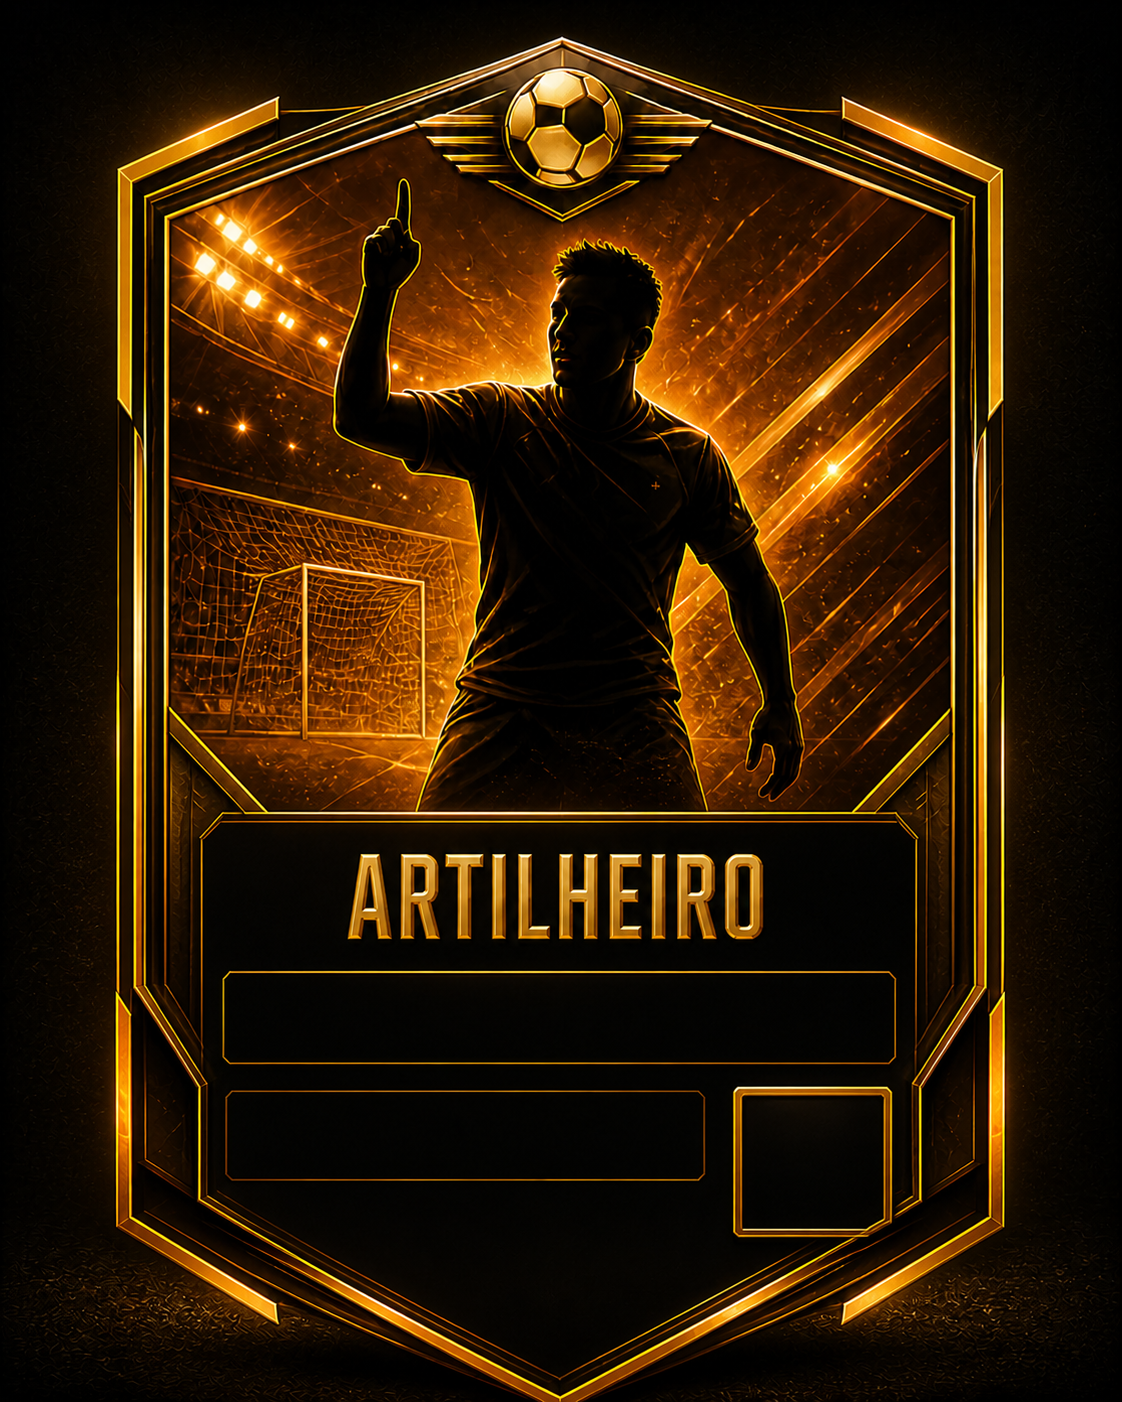
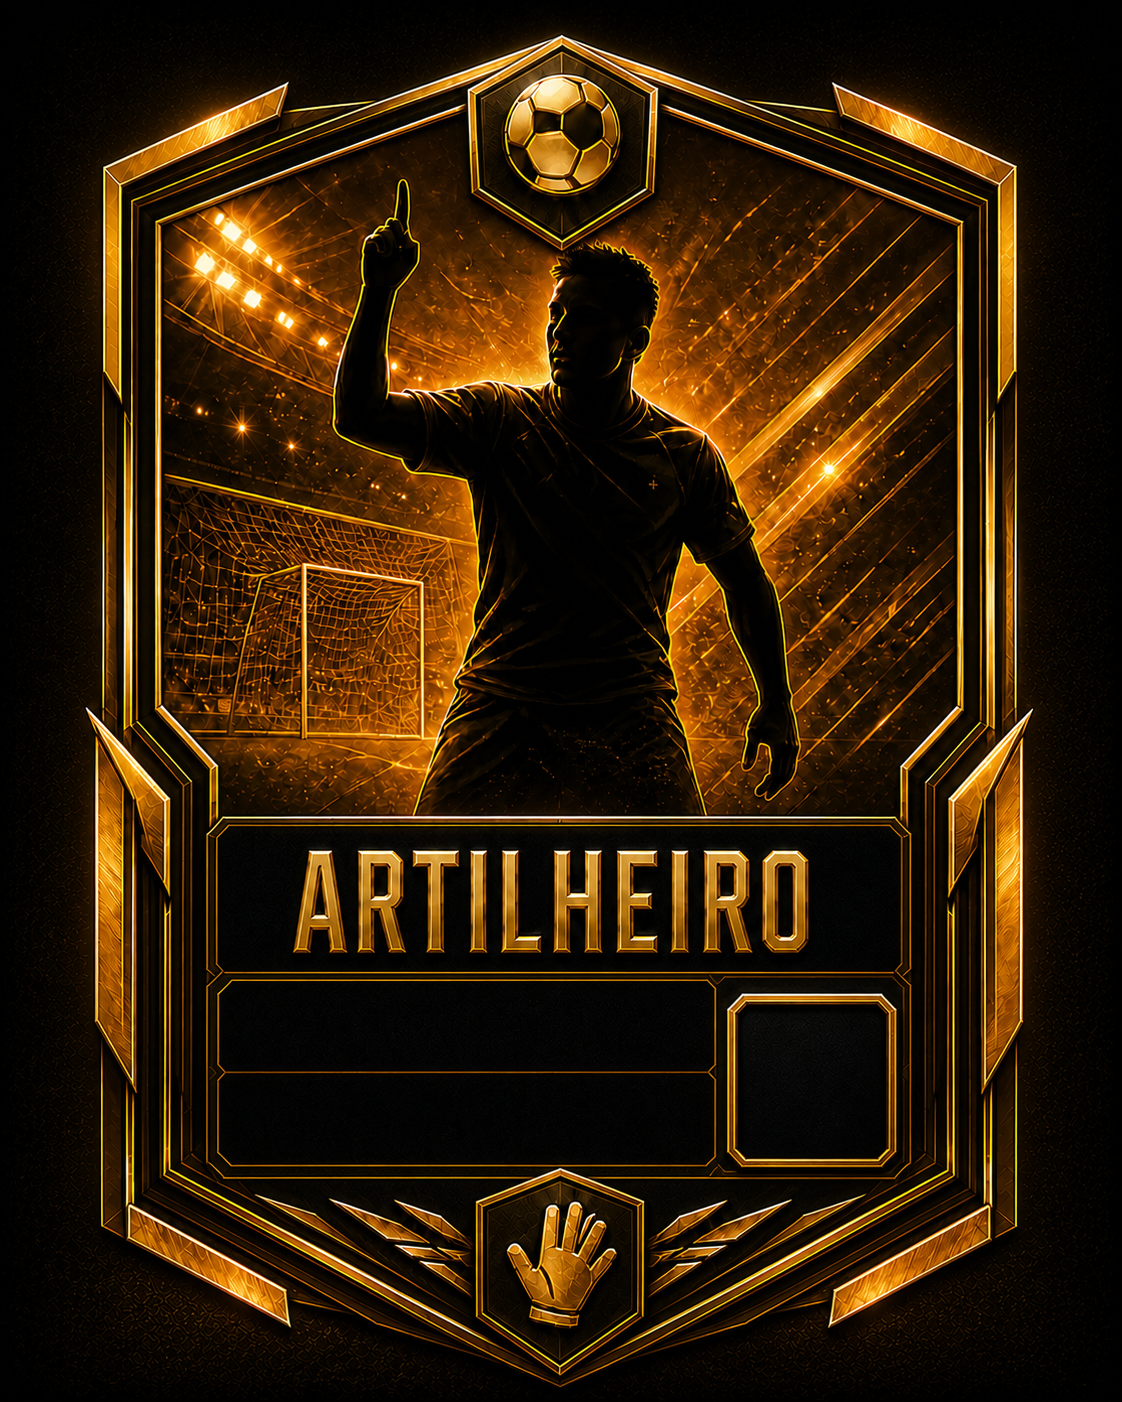
Standardize award card frames and QR placement

Changed region(s): [[0.0312, 0.0307, 0.9358, 1.0], [0.7799, 0.9815, 0.8111, 1.0], [0.6863, 0.9815, 0.7175, 1.0]]

diff --git a/lib/award-card-config.ts b/lib/award-card-config.ts
@@ -1,10 +1,10 @@
 export const AWARD_CARD_CONFIG = {
-  artilheiro: { title: "ARTILHEIRO", value: "12 GOLS", image: "/images/awards/artilheiro-template.png", color: "#ffbd35", qrLight: "#ffe09a", nickX: 0.5, nickY: 0.72, statX: 0.42, statY: 0.81, qrX: 0.665, qrY: 0.78, qrSize: 0.13, textWidth: 0.43 },
-  garcom: { title: "GARÇOM", value: "9 ASSISTÊNCIAS", image: "/images/awards/garcom-template.png", color: "#38bdf8", qrLight: "#a9e4ff", nickX: 0.43, nickY: 0.735, statX: 0.43, statY: 0.795, qrX: 0.67, qrY: 0.705, qrSize: 0.125, textWidth: 0.41 },
-  craque: { title: "CRAQUE DO CAMPEONATO", value: "NOTA 9,2", image: "/images/awards/craque-template.png", color: "#f4c542", qrLight: "#f3dd91", nickX: 0.43, nickY: 0.715, statX: 0.43, statY: 0.795, qrX: 0.665, qrY: 0.69, qrSize: 0.14, textWidth: 0.42 },
-  maestro: { title: "MAESTRO", value: "184 PASSES CERTOS", image: "/images/awards/maestro-template.png", color: "#2dd4bf", qrLight: "#a2f3e8", nickX: 0.5, nickY: 0.755, statX: 0.42, statY: 0.845, qrX: 0.67, qrY: 0.81, qrSize: 0.125, textWidth: 0.42 },
-  xerife: { title: "XERIFE", value: "31 DESARMES", image: "/images/awards/xerife-template.png", color: "#e2e8f0", qrLight: "#dce3ea", nickX: 0.5, nickY: 0.705, statX: 0.42, statY: 0.80, qrX: 0.69, qrY: 0.74, qrSize: 0.12, textWidth: 0.48 },
-  muralha: { title: "MURALHA", value: "27 DEFESAS", image: "/images/awards/muralha-template.png", color: "#ef4444", qrLight: "#ffaaaa", nickX: 0.42, nickY: 0.715, statX: 0.42, statY: 0.79, qrX: 0.66, qrY: 0.70, qrSize: 0.14, textWidth: 0.43 },
+  artilheiro: { title: "ARTILHEIRO", value: "12 GOLS", image: "/images/awards/artilheiro-template.png", color: "#ffbd35", qrLight: "#ffe09a", nickX: 0.42, nickY: 0.73, statX: 0.42, statY: 0.80, qrX: 0.66, qrY: 0.71, qrSize: 0.13, textWidth: 0.43 },
+  garcom: { title: "GARÇOM", value: "9 ASSISTÊNCIAS", image: "/images/awards/garcom-template.png", color: "#38bdf8", qrLight: "#a9e4ff", nickX: 0.42, nickY: 0.735, statX: 0.42, statY: 0.795, qrX: 0.66, qrY: 0.71, qrSize: 0.13, textWidth: 0.41 },
+  craque: { title: "CRAQUE DO CAMPEONATO", value: "NOTA 9,2", image: "/images/awards/craque-template.png", color: "#f4c542", qrLight: "#f3dd91", nickX: 0.42, nickY: 0.715, statX: 0.42, statY: 0.795, qrX: 0.66, qrY: 0.71, qrSize: 0.13, textWidth: 0.42 },
+  maestro: { title: "MAESTRO", value: "184 PASSES CERTOS", image: "/images/awards/maestro-template.png", color: "#2dd4bf", qrLight: "#a2f3e8", nickX: 0.42, nickY: 0.755, statX: 0.42, statY: 0.84, qrX: 0.66, qrY: 0.71, qrSize: 0.13, textWidth: 0.42 },
+  xerife: { title: "XERIFE", value: "31 DESARMES", image: "/images/awards/xerife-template.png", color: "#e2e8f0", qrLight: "#dce3ea", nickX: 0.42, nickY: 0.705, statX: 0.42, statY: 0.80, qrX: 0.66, qrY: 0.71, qrSize: 0.13, textWidth: 0.48 },
+  muralha: { title: "MURALHA", value: "27 DEFESAS", image: "/images/awards/muralha-template.png", color: "#ef4444", qrLight: "#ffaaaa", nickX: 0.42, nickY: 0.715, statX: 0.42, statY: 0.79, qrX: 0.66, qrY: 0.71, qrSize: 0.13, textWidth: 0.43 },
 } as const
 
 export type AwardCardKey = keyof typeof AWARD_CARD_CONFIG
